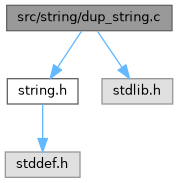
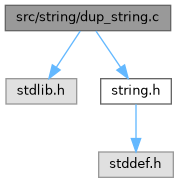
updated the mainpage

diff --git a/docs/d0/d30/md_README.html b/docs/d0/d30/md_README.html
@@ -5,14 +5,14 @@
 <meta http-equiv="X-UA-Compatible" content="IE=11"/>
 <meta name="generator" content="Doxygen 1.9.8"/>
 <meta name="viewport" content="width=device-width, initial-scale=1"/>
-<title>Lib String: lib_string documentation</title>
-<link href="tabs.css" rel="stylesheet" type="text/css"/>
-<script type="text/javascript" src="jquery.js"></script>
-<script type="text/javascript" src="dynsections.js"></script>
-<link href="search/search.css" rel="stylesheet" type="text/css"/>
-<script type="text/javascript" src="search/searchdata.js"></script>
-<script type="text/javascript" src="search/search.js"></script>
-<link href="doxygen.css" rel="stylesheet" type="text/css" />
+<title>Lib String: lib_string</title>
+<link href="../../tabs.css" rel="stylesheet" type="text/css"/>
+<script type="text/javascript" src="../../jquery.js"></script>
+<script type="text/javascript" src="../../dynsections.js"></script>
+<link href="../../search/search.css" rel="stylesheet" type="text/css"/>
+<script type="text/javascript" src="../../search/searchdata.js"></script>
+<script type="text/javascript" src="../../search/search.js"></script>
+<link href="../../doxygen.css" rel="stylesheet" type="text/css" />
 </head>
 <body>
 <div id="top"><!-- do not remove this div, it is closed by doxygen! -->
@@ -32,21 +32,20 @@
 <!-- Generated by Doxygen 1.9.8 -->
 <script type="text/javascript">
 /* @license magnet:?xt=urn:btih:d3d9a9a6595521f9666a5e94cc830dab83b65699&amp;dn=expat.txt MIT */
-var searchBox = new SearchBox("searchBox", "search/",'.html');
+var searchBox = new SearchBox("searchBox", "../../search/",'.html');
 /* @license-end */
 </script>
-<script type="text/javascript" src="menudata.js"></script>
-<script type="text/javascript" src="menu.js"></script>
+<script type="text/javascript" src="../../menudata.js"></script>
+<script type="text/javascript" src="../../menu.js"></script>
 <script type="text/javascript">
 /* @license magnet:?xt=urn:btih:d3d9a9a6595521f9666a5e94cc830dab83b65699&amp;dn=expat.txt MIT */
 $(function() {
-  initMenu('',true,false,'search.php','Search');
+  initMenu('../../',true,false,'search.php','Search');
   $(document).ready(function() { init_search(); });
 });
 /* @license-end */
 </script>
 <div id="main-nav"></div>
-</div><!-- top -->
 <!-- window showing the filter options -->
 <div id="MSearchSelectWindow"
      onmouseover="return searchBox.OnSearchSelectShow()"
@@ -68,20 +67,27 @@ $(function() {
 </div>
 </div>
 
+</div><!-- top -->
 <div><div class="header">
-  <div class="headertitle"><div class="title">lib_string documentation </div></div>
+  <div class="headertitle"><div class="title">lib_string</div></div>
 </div><!--header-->
 <div class="contents">
-<div class="textblock"><p><a class="anchor" id="md_Docs"></a> Welcome on the lib_string documentation.</p>
-<p>check here for all defined function:</p>
-<p><a href="https://victoro94.github.io/lib_string/globals_func.html">https://victoro94.github.io/lib_string/globals_func.html</a></p>
-<p>here for the file tree :</p>
-<p><a href="https://victoro94.github.io/lib_string/files.html">https://victoro94.github.io/lib_string/files.html</a> </p>
-</div></div><!-- PageDoc -->
-</div><!-- contents -->
+<div class="textblock"><p><a class="anchor" id="autotoc_md1"></a>a struct <a class="el" href="../../d5/d13/structString.html">String</a> in C that tries to be a high level type. mainly to express my level on C</p>
+<h1><a class="anchor" id="autotoc_md2"></a>
+Testing</h1>
+<div class="fragment"><div class="line">cd lib_string</div>
+<div class="line">make check</div>
+</div><!-- fragment --><h1><a class="anchor" id="autotoc_md3"></a>
+Trying by yourself</h1>
+<p>edit <a class="el" href="../../d0/d29/main_8c.html">main.c</a> situated in the src folder</p>
+<p>compile and run it </p><div class="fragment"><div class="line">make // or make all</div>
+</div><!-- fragment --><p>you can also debug it with</p>
+<div class="fragment"><div class="line">make debug</div>
+</div><!-- fragment --> </div></div><!-- contents -->
+</div><!-- PageDoc -->
 <!-- start footer part -->
 <hr class="footer"/><address class="footer"><small>
-Generated by&#160;<a href="https://www.doxygen.org/index.html"><img class="footer" src="doxygen.svg" width="104" height="31" alt="doxygen"/></a> 1.9.8
+Generated by&#160;<a href="https://www.doxygen.org/index.html"><img class="footer" src="../../doxygen.svg" width="104" height="31" alt="doxygen"/></a> 1.9.8
 </small></address>
 </body>
 </html>

diff --git a/docs/db/d82/Docs_8md.html b/docs/db/d82/Docs_8md.html
@@ -5,14 +5,14 @@
 <meta http-equiv="X-UA-Compatible" content="IE=11"/>
 <meta name="generator" content="Doxygen 1.9.8"/>
 <meta name="viewport" content="width=device-width, initial-scale=1"/>
-<title>Lib String: lib_string documentation</title>
-<link href="tabs.css" rel="stylesheet" type="text/css"/>
-<script type="text/javascript" src="jquery.js"></script>
-<script type="text/javascript" src="dynsections.js"></script>
-<link href="search/search.css" rel="stylesheet" type="text/css"/>
-<script type="text/javascript" src="search/searchdata.js"></script>
-<script type="text/javascript" src="search/search.js"></script>
-<link href="doxygen.css" rel="stylesheet" type="text/css" />
+<title>Lib String: Docs.md File Reference</title>
+<link href="../../tabs.css" rel="stylesheet" type="text/css"/>
+<script type="text/javascript" src="../../jquery.js"></script>
+<script type="text/javascript" src="../../dynsections.js"></script>
+<link href="../../search/search.css" rel="stylesheet" type="text/css"/>
+<script type="text/javascript" src="../../search/searchdata.js"></script>
+<script type="text/javascript" src="../../search/search.js"></script>
+<link href="../../doxygen.css" rel="stylesheet" type="text/css" />
 </head>
 <body>
 <div id="top"><!-- do not remove this div, it is closed by doxygen! -->
@@ -32,21 +32,20 @@
 <!-- Generated by Doxygen 1.9.8 -->
 <script type="text/javascript">
 /* @license magnet:?xt=urn:btih:d3d9a9a6595521f9666a5e94cc830dab83b65699&amp;dn=expat.txt MIT */
-var searchBox = new SearchBox("searchBox", "search/",'.html');
+var searchBox = new SearchBox("searchBox", "../../search/",'.html');
 /* @license-end */
 </script>
-<script type="text/javascript" src="menudata.js"></script>
-<script type="text/javascript" src="menu.js"></script>
+<script type="text/javascript" src="../../menudata.js"></script>
+<script type="text/javascript" src="../../menu.js"></script>
 <script type="text/javascript">
 /* @license magnet:?xt=urn:btih:d3d9a9a6595521f9666a5e94cc830dab83b65699&amp;dn=expat.txt MIT */
 $(function() {
-  initMenu('',true,false,'search.php','Search');
+  initMenu('../../',true,false,'search.php','Search');
   $(document).ready(function() { init_search(); });
 });
 /* @license-end */
 </script>
 <div id="main-nav"></div>
-</div><!-- top -->
 <!-- window showing the filter options -->
 <div id="MSearchSelectWindow"
      onmouseover="return searchBox.OnSearchSelectShow()"
@@ -68,20 +67,15 @@ $(function() {
 </div>
 </div>
 
-<div><div class="header">
-  <div class="headertitle"><div class="title">lib_string documentation </div></div>
+</div><!-- top -->
+<div class="header">
+  <div class="headertitle"><div class="title">Docs.md File Reference</div></div>
 </div><!--header-->
 <div class="contents">
-<div class="textblock"><p><a class="anchor" id="md_Docs"></a> Welcome on the lib_string documentation.</p>
-<p>check here for all defined function:</p>
-<p><a href="https://victoro94.github.io/lib_string/globals_func.html">https://victoro94.github.io/lib_string/globals_func.html</a></p>
-<p>here for the file tree :</p>
-<p><a href="https://victoro94.github.io/lib_string/files.html">https://victoro94.github.io/lib_string/files.html</a> </p>
-</div></div><!-- PageDoc -->
 </div><!-- contents -->
 <!-- start footer part -->
 <hr class="footer"/><address class="footer"><small>
-Generated by&#160;<a href="https://www.doxygen.org/index.html"><img class="footer" src="doxygen.svg" width="104" height="31" alt="doxygen"/></a> 1.9.8
+Generated by&#160;<a href="https://www.doxygen.org/index.html"><img class="footer" src="../../doxygen.svg" width="104" height="31" alt="doxygen"/></a> 1.9.8
 </small></address>
 </body>
 </html>

diff --git a/docs/d2/dc4/init__string_8c.html b/docs/d2/dc4/init__string_8c.html
@@ -78,20 +78,20 @@ $(function() {
   <div class="headertitle"><div class="title">init_string.c File Reference</div></div>
 </div><!--header-->
 <div class="contents">
-<div class="textblock"><code>#include &quot;<a class="el" href="../../da/d66/string_8h_source.html">string.h</a>&quot;</code><br />
-<code>#include &lt;stdlib.h&gt;</code><br />
+<div class="textblock"><code>#include &lt;stdlib.h&gt;</code><br />
+<code>#include &lt;<a class="el" href="../../da/d66/string_8h_source.html">string.h</a>&gt;</code><br />
 </div><div class="textblock"><div class="dynheader">
 Include dependency graph for init_string.c:</div>
 <div class="dyncontent">
 <div class="center"><img src="../../de/d60/init__string_8c__incl.png" border="0" usemap="#asrc_2string_2init__string_8c" alt=""/></div>
 <map name="asrc_2string_2init__string_8c" id="asrc_2string_2init__string_8c">
-<area shape="rect" title=" " alt="" coords="8,5,171,31"/>
-<area shape="rect" href="../../da/d66/string_8h.html" title=" " alt="" coords="7,79,78,104"/>
-<area shape="poly" title=" " alt="" coords="84,32,60,69,56,66,79,30"/>
-<area shape="rect" title=" " alt="" coords="102,79,173,104"/>
-<area shape="poly" title=" " alt="" coords="99,30,124,66,120,69,95,33"/>
-<area shape="rect" title=" " alt="" coords="5,152,80,177"/>
-<area shape="poly" title=" " alt="" coords="45,104,45,138,40,138,40,104"/>
+<area shape="rect" title=" " alt="" coords="6,5,169,31"/>
+<area shape="rect" title=" " alt="" coords="5,79,76,104"/>
+<area shape="poly" title=" " alt="" coords="82,32,58,69,54,66,77,30"/>
+<area shape="rect" href="../../da/d66/string_8h.html" title=" " alt="" coords="100,79,171,104"/>
+<area shape="poly" title=" " alt="" coords="97,30,122,66,118,69,93,33"/>
+<area shape="rect" title=" " alt="" coords="98,152,173,177"/>
+<area shape="poly" title=" " alt="" coords="138,104,138,138,133,138,133,104"/>
 </map>
 </div>
 </div><table class="memberdecls">
@@ -214,7 +214,7 @@ Functions</h2></td></tr>
 <p>Reset the string given. </p>
 <p>Set the size to 0, the capacity to 1 and data is reallocated.<br  />
  <br  />
- The call is equivalent of free_string and <a class="el" href="../../d2/dc4/init__string_8c.html#a48a933a8459e33694a92be310eaa722e" title="Init a struct String and return it.">init_string()</a>. </p><dl class="section return"><dt>Returns</dt><dd><a class="el" href="../../d5/d13/structString.html">String</a> * The reseted <a class="el" href="../../d5/d13/structString.html">String</a>. </dd></dl>
+The call is equivalent of free_string and <a class="el" href="../../d2/dc4/init__string_8c.html#a48a933a8459e33694a92be310eaa722e" title="Init a struct String and return it.">init_string()</a>. </p><dl class="section return"><dt>Returns</dt><dd><a class="el" href="../../d5/d13/structString.html">String</a> * The reseted <a class="el" href="../../d5/d13/structString.html">String</a>. </dd></dl>
 
 </div>
 </div>

diff --git a/docs/d6/d93/print__string_8c.html b/docs/d6/d93/print__string_8c.html
@@ -78,20 +78,20 @@ $(function() {
   <div class="headertitle"><div class="title">print_string.c File Reference</div></div>
 </div><!--header-->
 <div class="contents">
-<div class="textblock"><code>#include &quot;<a class="el" href="../../da/d66/string_8h_source.html">string.h</a>&quot;</code><br />
-<code>#include &lt;stdio.h&gt;</code><br />
+<div class="textblock"><code>#include &lt;stdio.h&gt;</code><br />
+<code>#include &quot;<a class="el" href="../../da/d66/string_8h_source.html">string.h</a>&quot;</code><br />
 </div><div class="textblock"><div class="dynheader">
 Include dependency graph for print_string.c:</div>
 <div class="dyncontent">
 <div class="center"><img src="../../dd/da5/print__string_8c__incl.png" border="0" usemap="#asrc_2string_2print__string_8c" alt=""/></div>
 <map name="asrc_2string_2print__string_8c" id="asrc_2string_2print__string_8c">
 <area shape="rect" title=" " alt="" coords="5,5,176,31"/>
-<area shape="rect" href="../../da/d66/string_8h.html" title=" " alt="" coords="9,79,79,104"/>
+<area shape="rect" title=" " alt="" coords="11,79,77,104"/>
 <area shape="poly" title=" " alt="" coords="85,32,61,69,57,66,81,30"/>
-<area shape="rect" title=" " alt="" coords="104,79,171,104"/>
+<area shape="rect" href="../../da/d66/string_8h.html" title=" " alt="" coords="102,79,173,104"/>
 <area shape="poly" title=" " alt="" coords="101,30,124,66,120,69,96,32"/>
-<area shape="rect" title=" " alt="" coords="7,152,81,177"/>
-<area shape="poly" title=" " alt="" coords="47,104,47,138,41,138,41,104"/>
+<area shape="rect" title=" " alt="" coords="100,152,175,177"/>
+<area shape="poly" title=" " alt="" coords="140,104,140,138,135,138,135,104"/>
 </map>
 </div>
 </div><table class="memberdecls">
@@ -123,7 +123,7 @@ Functions</h2></td></tr>
 
 <p>Display all the information on stdout. </p>
 <p>Display the given string on stdout in a debug form. <br  />
- Displays the content, size and capacity. </p><dl class="section return"><dt>Returns</dt><dd>void This function returns nothing. </dd></dl>
+Displays the content, size and capacity. </p><dl class="section return"><dt>Returns</dt><dd>void This function returns nothing. </dd></dl>
 <dl class="params"><dt>Parameters</dt><dd>
   <table class="params">
     <tr><td class="paramname"><a class="el" href="../../d5/d13/structString.html">String</a></td><td>* The string which will be displayed. </td></tr>

diff --git a/docs/search/all_2.js b/docs/search/all_2.js
@@ -4,7 +4,9 @@ var searchData=
   ['data_5fstring_2ec_1',['data_string.c',['../d9/db1/data__string_8c.html',1,'']]],
   ['debug_5fstring_2',['debug_string',['../d6/d93/print__string_8c.html#ac0e8aecfb904cda2db2d53515d9fed50',1,'debug_string(String *string):&#160;print_string.c'],['../da/d66/string_8h.html#ac0e8aecfb904cda2db2d53515d9fed50',1,'debug_string(String *string):&#160;print_string.c']]],
   ['display_5fstring_3',['display_string',['../d6/d93/print__string_8c.html#a15f64b572acfc4c848199a8949f4d78d',1,'display_string(String *string):&#160;print_string.c'],['../da/d66/string_8h.html#a15f64b572acfc4c848199a8949f4d78d',1,'display_string(String *string):&#160;print_string.c']]],
-  ['dup_5fstring_4',['dup_string',['../d6/d41/dup__string_8c.html#a33be3ce51841de174a6742f29e91ded7',1,'dup_string(String *string):&#160;dup_string.c'],['../da/d66/string_8h.html#a33be3ce51841de174a6742f29e91ded7',1,'dup_string(String *string):&#160;dup_string.c']]],
-  ['dup_5fstring_2ec_5',['dup_string.c',['../d6/d41/dup__string_8c.html',1,'']]],
-  ['dupn_5fstring_6',['dupn_string',['../d6/d41/dup__string_8c.html#abee1ac62e735aab2c4f5e26dca57037e',1,'dupn_string(String *string, size_t n):&#160;dup_string.c'],['../da/d66/string_8h.html#abee1ac62e735aab2c4f5e26dca57037e',1,'dupn_string(String *string, size_t n):&#160;dup_string.c']]]
+  ['docs_2emd_4',['Docs.md',['../db/d82/Docs_8md.html',1,'']]],
+  ['documentation_5',['lib_string documentation',['../index.html',1,'']]],
+  ['dup_5fstring_6',['dup_string',['../d6/d41/dup__string_8c.html#a33be3ce51841de174a6742f29e91ded7',1,'dup_string(String *string):&#160;dup_string.c'],['../da/d66/string_8h.html#a33be3ce51841de174a6742f29e91ded7',1,'dup_string(String *string):&#160;dup_string.c']]],
+  ['dup_5fstring_2ec_7',['dup_string.c',['../d6/d41/dup__string_8c.html',1,'']]],
+  ['dupn_5fstring_8',['dupn_string',['../d6/d41/dup__string_8c.html#abee1ac62e735aab2c4f5e26dca57037e',1,'dupn_string(String *string, size_t n):&#160;dup_string.c'],['../da/d66/string_8h.html#abee1ac62e735aab2c4f5e26dca57037e',1,'dupn_string(String *string, size_t n):&#160;dup_string.c']]]
 ];

diff --git a/docs/d6/d41/dup__string_8c.html b/docs/d6/d41/dup__string_8c.html
@@ -78,20 +78,20 @@ $(function() {
   <div class="headertitle"><div class="title">dup_string.c File Reference</div></div>
 </div><!--header-->
 <div class="contents">
-<div class="textblock"><code>#include &quot;<a class="el" href="../../da/d66/string_8h_source.html">string.h</a>&quot;</code><br />
-<code>#include &lt;stdlib.h&gt;</code><br />
+<div class="textblock"><code>#include &lt;stdlib.h&gt;</code><br />
+<code>#include &lt;<a class="el" href="../../da/d66/string_8h_source.html">string.h</a>&gt;</code><br />
 </div><div class="textblock"><div class="dynheader">
 Include dependency graph for dup_string.c:</div>
 <div class="dyncontent">
 <div class="center"><img src="../../d1/db5/dup__string_8c__incl.png" border="0" usemap="#asrc_2string_2dup__string_8c" alt=""/></div>
 <map name="asrc_2string_2dup__string_8c" id="asrc_2string_2dup__string_8c">
-<area shape="rect" title=" " alt="" coords="7,5,172,31"/>
-<area shape="rect" href="../../da/d66/string_8h.html" title=" " alt="" coords="7,79,78,104"/>
-<area shape="poly" title=" " alt="" coords="84,32,60,69,56,66,79,30"/>
-<area shape="rect" title=" " alt="" coords="102,79,173,104"/>
-<area shape="poly" title=" " alt="" coords="99,30,124,66,120,69,95,33"/>
-<area shape="rect" title=" " alt="" coords="5,152,80,177"/>
-<area shape="poly" title=" " alt="" coords="45,104,45,138,40,138,40,104"/>
+<area shape="rect" title=" " alt="" coords="5,5,171,31"/>
+<area shape="rect" title=" " alt="" coords="6,79,77,104"/>
+<area shape="poly" title=" " alt="" coords="83,32,59,69,54,66,78,30"/>
+<area shape="rect" href="../../da/d66/string_8h.html" title=" " alt="" coords="101,79,171,104"/>
+<area shape="poly" title=" " alt="" coords="98,30,123,66,118,69,94,33"/>
+<area shape="rect" title=" " alt="" coords="99,152,173,177"/>
+<area shape="poly" title=" " alt="" coords="139,104,139,138,133,138,133,104"/>
 </map>
 </div>
 </div><table class="memberdecls">

diff --git a/docs/pages.html b/docs/pages.html
@@ -5,7 +5,7 @@
 <meta http-equiv="X-UA-Compatible" content="IE=11"/>
 <meta name="generator" content="Doxygen 1.9.8"/>
 <meta name="viewport" content="width=device-width, initial-scale=1"/>
-<title>Lib String: lib_string documentation</title>
+<title>Lib String: Related Pages</title>
 <link href="tabs.css" rel="stylesheet" type="text/css"/>
 <script type="text/javascript" src="jquery.js"></script>
 <script type="text/javascript" src="dynsections.js"></script>
@@ -68,16 +68,15 @@ $(function() {
 </div>
 </div>
 
-<div><div class="header">
-  <div class="headertitle"><div class="title">lib_string documentation </div></div>
+<div class="header">
+  <div class="headertitle"><div class="title">Related Pages</div></div>
 </div><!--header-->
 <div class="contents">
-<div class="textblock"><p><a class="anchor" id="md_Docs"></a> Welcome on the lib_string documentation.</p>
-<p>check here for all defined function:</p>
-<p><a href="https://victoro94.github.io/lib_string/globals_func.html">https://victoro94.github.io/lib_string/globals_func.html</a></p>
-<p>here for the file tree :</p>
-<p><a href="https://victoro94.github.io/lib_string/files.html">https://victoro94.github.io/lib_string/files.html</a> </p>
-</div></div><!-- PageDoc -->
+<div class="textblock">Here is a list of all related documentation pages:</div><div class="directory">
+<table class="directory">
+<tr id="row_0_" class="even"><td class="entry"><span style="width:16px;display:inline-block;">&#160;</span><a class="el" href="d0/d30/md_README.html" target="_self">lib_string</a></td><td class="desc"></td></tr>
+</table>
+</div><!-- directory -->
 </div><!-- contents -->
 <!-- start footer part -->
 <hr class="footer"/><address class="footer"><small>

diff --git a/docs/da/d66/string_8h.html b/docs/da/d66/string_8h.html
@@ -319,7 +319,7 @@ Functions</h2></td></tr>
 
 <p>Display all the information on stdout. </p>
 <p>Display the given string on stdout in a debug form. <br  />
- Displays the content, size and capacity. </p><dl class="section return"><dt>Returns</dt><dd>void This function returns nothing. </dd></dl>
+Displays the content, size and capacity. </p><dl class="section return"><dt>Returns</dt><dd>void This function returns nothing. </dd></dl>
 <dl class="params"><dt>Parameters</dt><dd>
   <table class="params">
     <tr><td class="paramname"><a class="el" href="../../d5/d13/structString.html">String</a></td><td>* The string which will be displayed. </td></tr>
@@ -507,7 +507,7 @@ Functions</h2></td></tr>
 <p>Reset the string given. </p>
 <p>Set the size to 0, the capacity to 1 and data is reallocated.<br  />
  <br  />
- The call is equivalent of free_string and <a class="el" href="../../d2/dc4/init__string_8c.html#a48a933a8459e33694a92be310eaa722e" title="Init a struct String and return it.">init_string()</a>. </p><dl class="section return"><dt>Returns</dt><dd><a class="el" href="../../d5/d13/structString.html">String</a> * The reseted <a class="el" href="../../d5/d13/structString.html">String</a>. </dd></dl>
+The call is equivalent of free_string and <a class="el" href="../../d2/dc4/init__string_8c.html#a48a933a8459e33694a92be310eaa722e" title="Init a struct String and return it.">init_string()</a>. </p><dl class="section return"><dt>Returns</dt><dd><a class="el" href="../../d5/d13/structString.html">String</a> * The reseted <a class="el" href="../../d5/d13/structString.html">String</a>. </dd></dl>
 
 </div>
 </div>

diff --git a/docs/d1/d21/cmp__string_8c.html b/docs/d1/d21/cmp__string_8c.html
@@ -78,7 +78,7 @@ $(function() {
   <div class="headertitle"><div class="title">cmp_string.c File Reference</div></div>
 </div><!--header-->
 <div class="contents">
-<div class="textblock"><code>#include &quot;<a class="el" href="../../da/d66/string_8h_source.html">string.h</a>&quot;</code><br />
+<div class="textblock"><code>#include &lt;<a class="el" href="../../da/d66/string_8h_source.html">string.h</a>&gt;</code><br />
 </div><div class="textblock"><div class="dynheader">
 Include dependency graph for cmp_string.c:</div>
 <div class="dyncontent">

diff --git a/docs/search/all_a.js b/docs/search/all_a.js
@@ -1,5 +1,5 @@
 var searchData=
 [
-  ['testing_0',['Testing',['../index.html#autotoc_md1',1,'']]],
-  ['trying_20by_20yourself_1',['Trying by yourself',['../index.html#autotoc_md2',1,'']]]
+  ['testing_0',['Testing',['../d0/d30/md_README.html#autotoc_md2',1,'']]],
+  ['trying_20by_20yourself_1',['Trying by yourself',['../d0/d30/md_README.html#autotoc_md3',1,'']]]
 ];

diff --git a/docs/search/files_1.js b/docs/search/files_1.js
@@ -1,5 +1,6 @@
 var searchData=
 [
   ['data_5fstring_2ec_0',['data_string.c',['../d9/db1/data__string_8c.html',1,'']]],
-  ['dup_5fstring_2ec_1',['dup_string.c',['../d6/d41/dup__string_8c.html',1,'']]]
+  ['docs_2emd_1',['Docs.md',['../db/d82/Docs_8md.html',1,'']]],
+  ['dup_5fstring_2ec_2',['dup_string.c',['../d6/d41/dup__string_8c.html',1,'']]]
 ];

diff --git a/docs/menudata.js b/docs/menudata.js
@@ -24,6 +24,7 @@
 */
 var menudata={children:[
 {text:"Main Page",url:"index.html"},
+{text:"Related Pages",url:"pages.html"},
 {text:"Classes",url:"annotated.html",children:[
 {text:"Class List",url:"annotated.html"},
 {text:"Class Index",url:"classes.html"},
